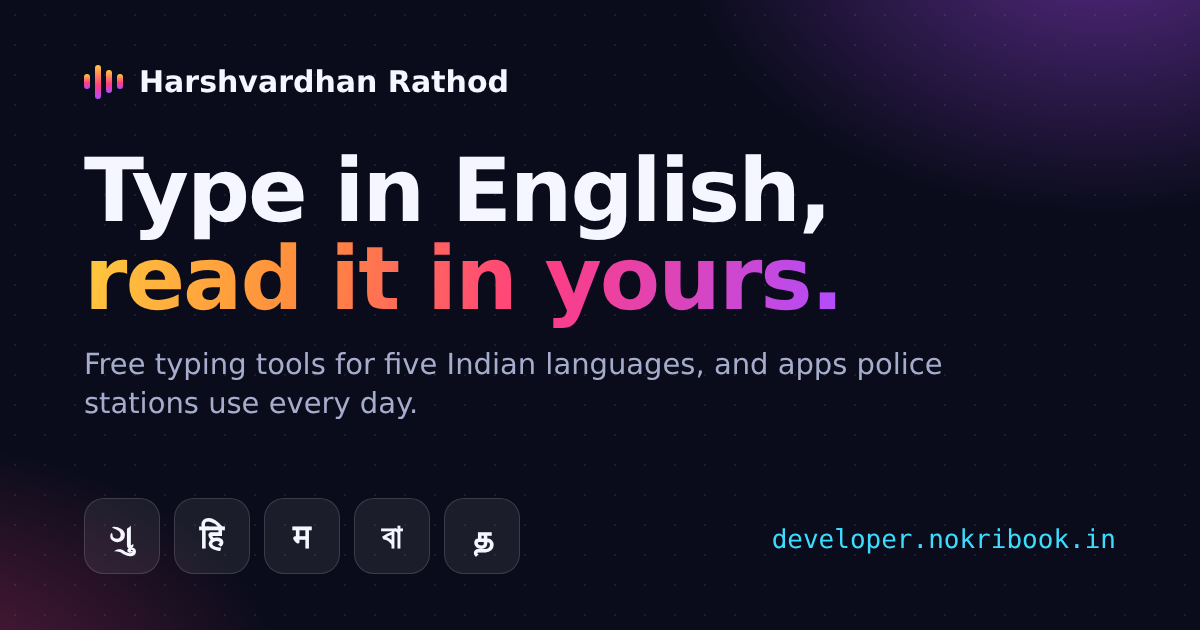
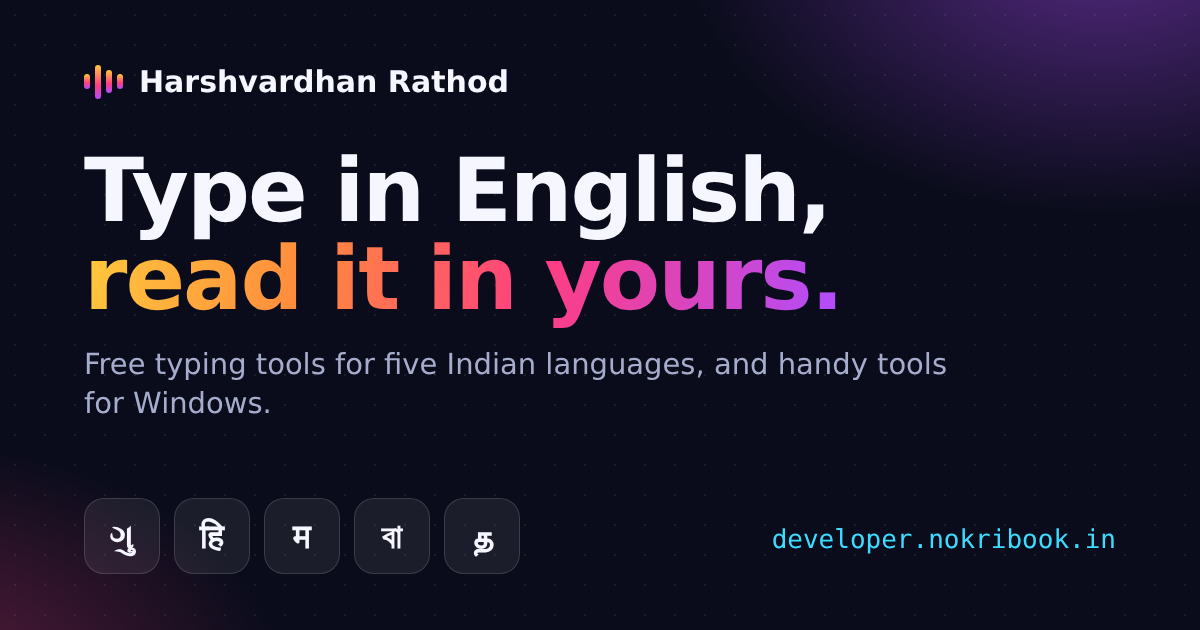
Remove all police-related apps and mentions
Claude-Session: https://claude.ai/code/session_01YMpHXjbSUoV9ZF94GihpPV

Changed region(s): [[0.0617, 0.6032, 0.3392, 0.6635], [0.6475, 0.5429, 0.8017, 0.6032]]

diff --git a/index.html b/index.html
@@ -4,7 +4,7 @@
 <meta charset="utf-8">
 <meta name="viewport" content="width=device-width, initial-scale=1">
 <title>Harshvardhan Rathod — Portfolio</title>
-<meta name="description" content="Harshvardhan Rathod builds free typing tools for Gujarati, Hindi, Marathi, Bengali and Tamil on the Microsoft Store, and Nokri Book, a duty roster app for police stations.">
+<meta name="description" content="Harshvardhan Rathod builds free typing tools for Gujarati, Hindi, Marathi, Bengali and Tamil on the Microsoft Store, and handy tools for Windows.">
 <link rel="canonical" href="https://developer.nokribook.in/">
 <meta name="theme-color" content="#0A0C1B">
 <link rel="icon" href="icon.svg" type="image/svg+xml">
@@ -12,7 +12,7 @@
 <meta property="og:type" content="website">
 <meta property="og:site_name" content="Harshvardhan Rathod">
 <meta property="og:title" content="Harshvardhan Rathod — typing tools and apps">
-<meta property="og:description" content="Free typing tools for five Indian languages, and apps police stations use every day.">
+<meta property="og:description" content="Free typing tools for five Indian languages, and handy tools for Windows.">
 <meta property="og:url" content="https://developer.nokribook.in/">
 <meta property="og:image" content="https://developer.nokribook.in/og.png">
 <meta property="og:image:width" content="1200">
@@ -20,9 +20,9 @@
 <meta property="og:image:alt" content="Harshvardhan Rathod — Type in English, read it in yours.">
 <meta name="twitter:card" content="summary_large_image">
 <meta name="twitter:title" content="Harshvardhan Rathod — typing tools and apps">
-<meta name="twitter:description" content="Free typing tools for five Indian languages, and apps police stations use every day.">
+<meta name="twitter:description" content="Free typing tools for five Indian languages, and handy tools for Windows.">
 <meta name="twitter:image" content="https://developer.nokribook.in/og.png">
-<script type="application/ld+json">{"@context":"https://schema.org","@type":"Person","name":"Harshvardhan Rathod","url":"https://developer.nokribook.in/","jobTitle":"App developer","sameAs":["https://apps.microsoft.com/search/publisher?name=Harshvardhan+Pankajbhai+Rathod","https://nokribook.in"]}</script>
+<script type="application/ld+json">{"@context":"https://schema.org","@type":"Person","name":"Harshvardhan Rathod","url":"https://developer.nokribook.in/","jobTitle":"App developer","sameAs":["https://apps.microsoft.com/search/publisher?name=Harshvardhan+Pankajbhai+Rathod"]}</script>
 <link rel="preconnect" href="https://fonts.googleapis.com">
 <link rel="preconnect" href="https://fonts.gstatic.com" crossorigin>
 <link href="https://fonts.googleapis.com/css2?family=Instrument+Serif:ital@0;1&family=Bricolage+Grotesque:opsz,wght@12..96,600;12..96,800&family=Figtree:wght@400;500;600;700&family=IBM+Plex+Mono:wght@500&family=Noto+Sans+Gujarati:wght@500;700&display=swap" rel="stylesheet">
@@ -471,8 +471,6 @@ a:focus-visible,button:focus-visible{outline-color:var(--pink)}
 .scard .ms{width:18px;height:18px}
 .m3{--p:#B3261E;--onp:#fff;--pc:#FFDAD6;--onpc:#410002;--sf:#FFF8F6;--sc:#FCEAE7;--sch:#F6E1DD;--on:#231918;--onv:#534341;--ol:#D8C2BF;
   background:var(--sf);color:var(--on);font-family:"Figtree","Noto Sans Gujarati",system-ui,sans-serif;font-size:12px}
-.t-nokri{--p:#C2410C;--pc:#FFDBCB;--onpc:#3A0B00;--sf:#FFF8F5;--sc:#FCEDE6;--sch:#F5E2D9;--on:#221A15;--onv:#53443C;--ol:#D9C2B8}
-.t-crime{--p:#8C5000;--pc:#FFDDB6;--onpc:#2D1600;--sf:#FFF8F4;--sc:#F9EDE2;--sch:#F2E3D6;--on:#201A14;--onv:#504539;--ol:#D5C4B5}
 .t-review{--p:#6A3FC8;--pc:#E9DDFF;--onpc:#22005D;--sf:#FDF7FF;--sc:#F2ECF7;--sch:#ECE5F2;--on:#1D1B20;--onv:#49454F;--ol:#CBC4D0}
 .t-find{--p:#006A60;--pc:#9EF2E4;--onpc:#00201C;--sf:#F4FBF8;--sc:#E9EFEC;--sch:#E3EAE7;--on:#161D1B;--onv:#3F4946;--ol:#BEC9C5}
 .dev.m3{border:0;padding:0;display:flex;flex-direction:column}
@@ -513,7 +511,6 @@ a:focus-visible,button:focus-visible{outline-color:var(--pink)}
 .navbar .on i{background:var(--pc);color:var(--onpc)}
 
 /* desktop: navigation rail */
-.t-crime{flex-direction:row!important}
 .rail{width:74px;flex:none;display:flex;flex-direction:column;align-items:center;gap:8px;padding:12px 0;background:var(--sc)}
 .logo-dot{width:38px;height:38px;border-radius:12px;display:grid;place-items:center;background:var(--p);color:#fff;margin-bottom:6px}
 .r{display:flex;flex-direction:column;align-items:center;gap:2px;font-size:9.5px;font-weight:500;color:var(--onv)}
@@ -635,6 +632,10 @@ html[lang="gu"] .lang-btn{font-family:var(--sans);font-size:13px}
 html[lang="gu"] .eyebrow,html[lang="gu"] .swipe-hint{letter-spacing:0;text-transform:none;font-family:var(--indic)}
 html[lang="gu"] .eyebrow{font-size:13px}
 .logo{min-width:0;overflow:hidden}
+/* one app in the viewer: no side list */
+.steps{display:none}
+.pin{grid-template-columns:1fr 300px}
+@media (max-width:900px){.pin{grid-template-columns:1fr}}
 @media (max-width:560px){.nav{gap:8px}.lang-btn{min-width:36px;padding:0 8px}}
 </style>
 </head>
@@ -659,7 +660,7 @@ html[lang="gu"] .eyebrow{font-size:13px}
   <div class="wrap">
     <div data-gu='હર્ષવર્ધન રાઠોડ · ધોરણ 10 ના ડેવલપર' class="eyebrow in">Harshvardhan Rathod · Class 10 developer</div>
     <h1 class="in d1"><span data-gu='અંગ્રેજીમાં લખો,'>Type in English,</span><em id="heroEm" data-gu='વાંચો તમારી ભાષામાં.'>read it in yours.</em></h1>
-    <p data-gu='હું પાંચ ભારતીય ભાષાઓ માટે મફત ટાઇપિંગ ટૂલ્સ બનાવું છું, અને એવી એપ્સ જે પોલીસ સ્ટેશન રોજ વાપરે છે.' class="lede in d2">I build free typing tools for five Indian languages, and apps that police stations use every day.</p>
+    <p data-gu='હું પાંચ ભારતીય ભાષાઓ માટે મફત ટાઇપિંગ ટૂલ્સ અને રોજ સમય બચાવે તેવાં Windows ટૂલ્સ બનાવું છું.' class="lede in d2">I build free typing tools for five Indian languages, and Windows tools that save time every day.</p>
     <div class="names in d3" aria-label="My name in the five languages my tools type">
       <div class="name-rot"><span class="nm" id="nmText" lang="gu">હર્ષવર્ધન રાઠોડ</span></div>
       <div class="name-tabs" id="nameTabs">
@@ -688,8 +689,8 @@ html[lang="gu"] .eyebrow{font-size:13px}
 <section class="band">
   <span data-gu='ભારતીય ભાષાઓમાં લખનારા લોકો માટે' class="eyebrow">Made for people who write in Indian languages</span>
   <div class="marq"><div class="logos">
-    <span data-gu='<i>ગુ</i>કચેરીઓ'><i>ગુ</i>Offices</span><span data-gu='<i>हि</i>કોર્ટ'><i>हि</i>Courts</span><span data-gu='<i>म</i>વકીલો'><i>म</i>Lawyers</span><span data-gu='<i>বা</i>વિદ્યાર્થીઓ'><i>বা</i>Students</span><span data-gu='<i>த</i>ટાઇપિસ્ટ'><i>த</i>Typists</span><span data-gu='<i>ગુ</i>પોલીસ સ્ટેશન'><i>ગુ</i>Police stations</span><span data-gu='<i>हि</i>શિક્ષકો'><i>हि</i>Teachers</span>
-    <span data-gu='<i>ગુ</i>કચેરીઓ'><i>ગુ</i>Offices</span><span data-gu='<i>हि</i>કોર્ટ'><i>हि</i>Courts</span><span data-gu='<i>म</i>વકીલો'><i>म</i>Lawyers</span><span data-gu='<i>বা</i>વિદ્યાર્થીઓ'><i>বা</i>Students</span><span data-gu='<i>த</i>ટાઇપિસ્ટ'><i>த</i>Typists</span><span data-gu='<i>ગુ</i>પોલીસ સ્ટેશન'><i>ગુ</i>Police stations</span><span data-gu='<i>हि</i>શિક્ષકો'><i>हि</i>Teachers</span>
+    <span data-gu='<i>ગુ</i>કચેરીઓ'><i>ગુ</i>Offices</span><span data-gu='<i>हि</i>કોર્ટ'><i>हि</i>Courts</span><span data-gu='<i>म</i>વકીલો'><i>म</i>Lawyers</span><span data-gu='<i>বা</i>વિદ્યાર્થીઓ'><i>বা</i>Students</span><span data-gu='<i>த</i>ટાઇપિસ્ટ'><i>த</i>Typists</span><span data-gu='<i>ગુ</i>લેખકો'><i>ગુ</i>Writers</span><span data-gu='<i>हि</i>શિક્ષકો'><i>हि</i>Teachers</span>
+    <span data-gu='<i>ગુ</i>કચેરીઓ'><i>ગુ</i>Offices</span><span data-gu='<i>हि</i>કોર્ટ'><i>हि</i>Courts</span><span data-gu='<i>म</i>વકીલો'><i>म</i>Lawyers</span><span data-gu='<i>বা</i>વિદ્યાર્થીઓ'><i>বা</i>Students</span><span data-gu='<i>த</i>ટાઇપિસ્ટ'><i>த</i>Typists</span><span data-gu='<i>ગુ</i>લેખકો'><i>ગુ</i>Writers</span><span data-gu='<i>हि</i>શિક્ષકો'><i>हि</i>Teachers</span>
   </div></div>
 </section>
 
@@ -742,72 +743,12 @@ html[lang="gu"] .eyebrow{font-size:13px}
     <div class="pin wrap">
       <div class="pin-head"><div data-gu='મારું બીજું કામ' class="eyebrow">More of my work</div></div>
       <ol class="steps" id="steps">
-        <li><button type="button" class="on" data-i="0">Nokri Book</button></li>
-        <li><button type="button" data-i="1">Crime Record</button></li>
-        <li><button type="button" data-i="2">Crime Review</button></li>
-        <li><button type="button" data-i="3">Quick Finds</button></li>
+        <li><button type="button" class="on" data-i="0">Quick Finds</button></li>
       </ol>
 
       <div class="stage">
-        <!-- Nokri Book : Flutter Material 3 phone -->
-        <div class="dev phone on m3 t-nokri" data-i="0">
-          <div class="sbar"><span>9:41</span><span class="ms s"><svg viewBox="0 0 24 24" aria-hidden="true"><path class="f" d="M4 18h3v3H4zM10 13h3v8h-3zM16 7h3v14h-3z"/></svg></span><span class="ms s"><svg viewBox="0 0 24 24" aria-hidden="true"><path d="M2 9a15 15 0 0 1 20 0M5 13a10 10 0 0 1 14 0M8.5 16.5a5 5 0 0 1 7 0"/><circle class="f" cx="12" cy="20" r="1.5"/></svg></span><span class="ms s"><svg viewBox="0 0 24 24" aria-hidden="true"><rect x="3" y="7" width="16" height="10" rx="2"/><path class="f" d="M5 9h12v6H5z"/><path d="M21 10v4"/></svg></span></div>
-          <div class="appbar"><div><small>શુક્રવાર, 20 નવે.</small><h4>આજની ડ્યુટી</h4></div><span class="avatar">HR</span></div>
-          <div class="seg3"><span class="on">આજે</span><span>કાલે</span><span>અઠવાડિયું</span></div>
-          <div class="hero-card ani" style="--d:0"><div><b data-to="24">24</b><small>ફરજ પર</small></div><div><b data-to="3">3</b><small>રજા</small></div><div><b data-to="5">5</b><small>ડ્યુટી</small></div></div>
-          <div class="tile ani" style="--d:1"><span class="lead c1">1</span><div class="tt"><b>PC · બક્કલ 101</b><small>112 · 08:00–20:00</small></div><span class="chip c1">112</span></div>
-          <div class="tile ani" style="--d:2"><span class="lead c2">2</span><div class="tt"><b>HC · બક્કલ 214</b><small>કોર્ટ મુદત</small></div><span class="chip c2">કેદી પાર્ટી</span></div>
-          <div class="tile ani" style="--d:3"><span class="lead c3">3</span><div class="tt"><b>LR · બક્કલ 087</b><small>મેળો</small></div><span class="chip c3">બંદોબસ્ત</span></div>
-          <div class="tile ani" style="--d:4"><span class="lead c4">4</span><div class="tt"><b>ASI · બક્કલ 033</b><small>SP કચેરી</small></div><span class="chip c4">ટપાલ</span></div>
-          <div class="fab"><span class="ms"><svg viewBox="0 0 24 24" aria-hidden="true"><path d="M12 5v14M5 12h14"/></svg></span>ડ્યુટી</div>
-          <div class="navbar"><span class="on"><i><span class="ms"><svg viewBox="0 0 24 24" aria-hidden="true"><rect x="4" y="5" width="16" height="15" rx="2.5"/><path d="M4 10h16M8 3v4M16 3v4"/></svg></span></i>રોસ્ટર</span><span><i><span class="ms"><svg viewBox="0 0 24 24" aria-hidden="true"><circle cx="9" cy="9" r="3"/><circle cx="17" cy="10" r="2.3"/><path d="M3 19c0-3.2 2.7-5 6-5s6 1.8 6 5M15.5 14.6c2.7-.3 5.5 1 5.5 4.4"/></svg></span></i>સ્ટાફ</span><span><i><span class="ms"><svg viewBox="0 0 24 24" aria-hidden="true"><path d="M4 12a8 8 0 1 0 2.4-5.7L4 8.5"/><path d="M4 4v4.5h4.5M12 8v4.5l3 2"/></svg></span></i>હિસ્ટ્રી</span></div>
-        </div>
-
-        <!-- Crime Record : Flutter desktop with NavigationRail -->
-        <div class="dev m3 t-crime" data-i="1">
-          <div class="rail">
-            <span class="logo-dot"><span class="ms"><svg viewBox="0 0 24 24" aria-hidden="true"><path d="M12 3l7 3v6c0 4.2-3 7.4-7 9-4-1.6-7-4.8-7-9V6z"/><path class="f" d="M12 8.5l1.1 2.2 2.4.3-1.8 1.6.5 2.4-2.2-1.2-2.2 1.2.5-2.4-1.8-1.6 2.4-.3z"/></svg></span></span>
-            <span class="r on"><i><span class="ms"><svg viewBox="0 0 24 24" aria-hidden="true"><rect x="4" y="4" width="7" height="7" rx="1.5"/><rect x="13" y="4" width="7" height="5" rx="1.5"/><rect x="13" y="11" width="7" height="9" rx="1.5"/><rect x="4" y="13" width="7" height="7" rx="1.5"/></svg></span></i>ડેશબોર્ડ</span>
-            <span class="r"><i><span class="ms"><svg viewBox="0 0 24 24" aria-hidden="true"><path d="M13 4l7 7M9 8l7 7M15 6l-6 6 3 3 6-6M10.5 13.5L4 20M4 21h9"/></svg></span></i>ગુનાઓ</span>
-            <span class="r"><i><span class="ms"><svg viewBox="0 0 24 24" aria-hidden="true"><path d="M7 3h7l5 5v13H7z"/><path d="M14 3v5h5M10 13h6M10 17h6"/></svg></span></i>B સ્ટેટ.</span>
-            <span class="r"><i><span class="ms"><svg viewBox="0 0 24 24" aria-hidden="true"><path d="M3 6c3-1.3 6-1.3 9 .8 3-2.1 6-2.1 9-.8v13c-3-1.3-6-1.3-9 .8-3-2.1-6-2.1-9-.8z"/><path d="M12 7v13"/></svg></span></i>બુક</span>
-          </div>
-          <div class="main">
-            <div class="searchbar"><span class="ms"><svg viewBox="0 0 24 24" aria-hidden="true"><circle cx="11" cy="11" r="6.5"/><path d="M16 16l4.5 4.5"/></svg></span><span class="ph">FIR નં., આરોપી, ગામ…</span><span class="avatar sm">HR</span></div>
-            <div class="stats3">
-              <div class="scard ani" style="--d:0"><span class="ms"><svg viewBox="0 0 24 24" aria-hidden="true"><rect x="5" y="5" width="14" height="16" rx="2"/><rect x="9" y="3" width="6" height="4" rx="1"/><path d="M8.5 12h7M8.5 16h5"/></svg></span><b data-to="148">148</b><small>દાખલ</small></div>
-              <div class="scard ok ani" style="--d:1"><span class="ms"><svg viewBox="0 0 24 24" aria-hidden="true"><circle cx="12" cy="12" r="8.5"/><path d="M8 12.3l2.8 2.7L16 9.5"/></svg></span><b data-to="131">131</b><small>ડીટેક્ટ</small></div>
-              <div class="scard warn ani" style="--d:2"><span class="ms"><svg viewBox="0 0 24 24" aria-hidden="true"><circle cx="12" cy="12" r="8.5"/><path d="M12 7.5V12l3 2"/></svg></span><b data-to="17">17</b><small>પેન્ડીંગ</small></div>
-            </div>
-            <div class="ltile ani" style="--d:3"><span class="sq"><span class="ms"><svg viewBox="0 0 24 24" aria-hidden="true"><path d="M3.5 4h17v4h-17zM5 8h14v12H5z"/><path d="M10 12h4"/></svg></span></span><div class="tt"><b>ભાગ-એ · ચોરી</b><small>FIR → ચાર્જશીટ → CC → ચુકાદો</small></div><span class="chip ok"><span class="ms s"><svg viewBox="0 0 24 24" aria-hidden="true"><path d="M5 12.5l4.5 4.5L19 7.5"/></svg></span>ડીટેક્ટ</span></div>
-            <div class="ltile ani" style="--d:4"><span class="sq warn"><span class="ms"><svg viewBox="0 0 24 24" aria-hidden="true"><path d="M5 4h14l-7 8z"/><path d="M12 12v7M8 20h8"/></svg></span></span><div class="tt"><b>ભાગ-સી · પ્રોહિબિશન</b><small>ચાર્જશીટ બાકી · 42 દિવસ</small></div><span class="chip warn">પેન્ડીંગ</span></div>
-          </div>
-          <div class="fab sm"><span class="ms"><svg viewBox="0 0 24 24" aria-hidden="true"><path class="f" d="M13.5 2L5 13.5h6L10 22l9-12h-6z"/></svg></span>ઝડપી અપડેટ</div>
-        </div>
-
-        <!-- Crime Review : Flutter chart screen -->
-        <div class="dev m3 t-review" data-i="2">
-          <div class="appbar"><div><small>Crime Review</small><h4>Monthly review</h4></div><span class="ibtn"><span class="ms"><svg viewBox="0 0 24 24" aria-hidden="true"><path d="M12 4v11M7 10.5l5 5 5-5M5 20h14"/></svg></span></span></div>
-          <div class="seg2"><span>2025</span><span class="on"><span class="ms s"><svg viewBox="0 0 24 24" aria-hidden="true"><path d="M5 12.5l4.5 4.5L19 7.5"/></svg></span>2026</span></div>
-          <div class="chart-card ani" style="--d:0">
-            <div class="cbars">
-              <div class="cb" style="--a:62%;--b:48%;--d:0"><i></i><i></i><span>Jun</span></div>
-              <div class="cb" style="--a:70%;--b:66%;--d:1"><i></i><i></i><span>Jul</span></div>
-              <div class="cb" style="--a:45%;--b:58%;--d:2"><i></i><i></i><span>Aug</span></div>
-              <div class="cb" style="--a:80%;--b:61%;--d:3"><i></i><i></i><span>Sep</span></div>
-              <div class="cb" style="--a:56%;--b:52%;--d:4"><i></i><i></i><span>Oct</span></div>
-              <div class="cb" style="--a:38%;--b:44%;--d:5"><i></i><i></i><span>Nov</span></div>
-            </div>
-            <div class="leg"><span class="a">This year</span><span class="b">Last year</span></div>
-          </div>
-          <div class="mini2">
-            <div class="mcard ani" style="--d:1"><span class="ms"><svg viewBox="0 0 24 24" aria-hidden="true"><path d="M3 7l6 6 4-4 8 8"/><path d="M15 17h6v-6"/></svg></span><div><b>−14%</b><small>vs Nov last year</small></div></div>
-            <div class="mcard ani" style="--d:2"><span class="ms"><svg viewBox="0 0 24 24" aria-hidden="true"><path d="M7 3h10M7 21h10M8 3c0 5 8 5 8 9s-8 4-8 9M16 3c0 5-8 5-8 9s8 4 8 9"/></svg></span><div><b data-to="9">9</b><small>pending &gt; 90 days</small></div></div>
-          </div>
-        </div>
-
         <!-- Quick Finds : Flutter search screen -->
-        <div class="dev m3 t-find" data-i="3">
+        <div class="dev m3 t-find on" data-i="0">
           <div class="searchbar big"><span class="ms"><svg viewBox="0 0 24 24" aria-hidden="true"><circle cx="11" cy="11" r="6.5"/><path d="M16 16l4.5 4.5"/></svg></span><span class="q" data-q="report 2026"></span><span class="caret"></span><span class="ms tr"><svg viewBox="0 0 24 24" aria-hidden="true"><path d="M4 7h9M17 7h3M4 17h3M11 17h9"/><circle cx="15" cy="7" r="2"/><circle cx="9" cy="17" r="2"/></svg></span></div>
           <div class="fchips"><span class="on"><span class="ms s"><svg viewBox="0 0 24 24" aria-hidden="true"><path d="M5 12.5l4.5 4.5L19 7.5"/></svg></span>All</span><span>Documents</span><span>PDF</span><span>Excel</span><span>Folders</span></div>
           <div class="ltile sel ani" style="--d:0"><span class="sq q-blue"><span class="ms"><svg viewBox="0 0 24 24" aria-hidden="true"><rect x="5" y="3" width="14" height="18" rx="2"/><path d="M8.5 8h7M8.5 12h7M8.5 16h4"/></svg></span></span><div class="tt"><b>Monthly report 2026.docx</b><small>Documents · 2 min ago</small></div><span class="tbtn">Open</span></div>
@@ -818,14 +759,7 @@ html[lang="gu"] .eyebrow{font-size:13px}
       </div>
 
       <div class="texts">
-        <div class="txt on" data-i="0"><span data-gu='ચાલુ' class="st live">Live</span><h3>Nokri Book</h3><div data-gu='પોલીસ ડ્યુટી રોસ્ટર' class="k">Police duty roster</div><p data-gu='પોલીસ સ્ટેશન માટે ડ્યુટી રોસ્ટર. સ્ટાફ પોતાની ડ્યુટી ફોન પર જુએ છે, અને જિલ્લા એડમિન દરેક સ્ટેશન જુએ છે.'>Duty rosters for police stations. Staff see their duty on the phone, and the district admin sees every station.</p><a data-gu='nokribook.in ખોલો ↗' class="ghost" href="https://nokribook.in" target="_blank" rel="noopener">Open nokribook.in ↗</a></div>
-        <div class="txt" data-i="1"><span data-gu='બની રહી છે' class="st wip">Building</span><h3>Crime Record</h3><div class="k">ક્રાઈમ રેકોર્ડ એપ</div><p data-gu='દરેક ગુનાને FIR થી કોર્ટના ચુકાદા સુધી અનુસરે છે. ઓફલાઇન ચાલે છે અને પૂરેપૂરી ગુજરાતીમાં છે.'>Follows every crime from FIR to court verdict. Works offline and fully in Gujarati.</p></div>
-        <div class="txt" data-i="2"><span data-gu='બની રહી છે' class="st wip">Building</span><h3>Crime Review</h3><div data-gu='માસિક ગુના સમીક્ષા' class="k">Monthly crime review</div><p data-gu='દર મહિનાના આંકડા ગયા વર્ષની બાજુમાં, બાકી કેસ સાથે. બધું ડિવાઇસ પર જ રહે છે.'>Each month's figures next to last year's, with pending cases. Everything stays on the device.</p></div>
-        <div class="txt" data-i="3"><span data-gu='Store રિવ્યૂમાં' class="st wip">Store review</span><h3>Quick Finds</h3><div data-gu='Windows ટૂલ' class="k">Windows utility</div><p data-gu='તમારા Windows PC પર એપ્સ, ફાઇલો, સેટિંગ્સ અને ખુલ્લી વિન્ડો પળમાં શોધો. ઝડપી ગણતરી અને એકમ રૂપાંતર પણ કરે છે.'>Find apps, files, settings and open windows on your Windows PC in a moment. It also does quick maths and unit conversions.</p></div>
-      </div>
-      <div class="swipe-wrap" style="grid-column:1/-1">
-        <div class="swipe-ui"><button type="button" id="sPrev" aria-label="Previous app">←</button><div class="pdots" id="pdots"><i class="on"></i><i></i><i></i><i></i></div><button type="button" id="sNext" aria-label="Next app">→</button></div>
-        <div data-gu='ડાબે, જમણે, ઉપર કે નીચે સ્વાઇપ કરો' class="swipe-hint">Swipe left, right, up or down</div>
+        <div class="txt on" data-i="0"><span data-gu='Store રિવ્યૂમાં' class="st wip">Store review</span><h3>Quick Finds</h3><div data-gu='Windows ટૂલ' class="k">Windows utility</div><p data-gu='તમારા Windows PC પર એપ્સ, ફાઇલો, સેટિંગ્સ અને ખુલ્લી વિન્ડો પળમાં શોધો. ઝડપી ગણતરી અને એકમ રૂપાંતર પણ કરે છે.'>Find apps, files, settings and open windows on your Windows PC in a moment. It also does quick maths and unit conversions.</p></div>
       </div>
     </div>
   </div>
@@ -860,7 +794,7 @@ html[lang="gu"] .eyebrow{font-size:13px}
       <div class="facts rv">
         <div class="fact"><span class="ic" style="background:var(--lilac);color:var(--lilac-ink)">✎</span><div><b data-gu='ધોરણ 10 નો વિદ્યાર્થી'>Class 10 student</b><span data-gu='શાળાની સાથે એપ્સ બનાવું છું'>Building apps alongside school</span></div></div>
         <div class="fact"><span class="ic" style="background:#D7F2E3;color:#13643E">ગુ</span><div><b data-gu='Store પર 5 ટાઇપિંગ ટૂલ્સ'>5 typing tools on the Store</b><span data-gu='ગુજરાતી, હિન્દી, મરાઠી, બંગાળી, તમિલ'>Gujarati, Hindi, Marathi, Bengali, Tamil</span></div></div>
-        <div class="fact"><span class="ic" style="background:#FBE7C2;color:#7A4E00">★</span><div><b data-gu='પોલીસ સ્ટેશન માટે એપ્સ'>Apps for police stations</b><span data-gu='ડ્યુટી રોસ્ટર, ગુના રેકોર્ડ, સમીક્ષા'>Duty rosters, crime records, reviews</span></div></div>
+        <div class="fact"><span class="ic" style="background:#FBE7C2;color:#7A4E00">★</span><div><b data-gu='Windows ટૂલ્સ'>Windows tools</b><span data-gu='Quick Finds, જલદી Store પર'>Quick Finds, coming to the Store</span></div></div>
       </div>
     </div>
 
@@ -972,8 +906,7 @@ html[lang="gu"] .eyebrow{font-size:13px}
   function next(dir){ setApp(cur+1,dir||"l"); }
   function prev(dir){ setApp(cur-1,dir||"r"); }
   steps.forEach(function(b){ b.addEventListener("click",function(){ var i=+b.dataset.i; setApp(i,i>cur?"l":"r"); }); });
-  document.getElementById("sNext").addEventListener("click",function(){ next("l"); });
-  document.getElementById("sPrev").addEventListener("click",function(){ prev("r"); });
+
 
   /* touch: left/right always; up/down change app, and pass to the page at the first/last app */
   var tx=0,ty=0,axis=null,touching=false;
